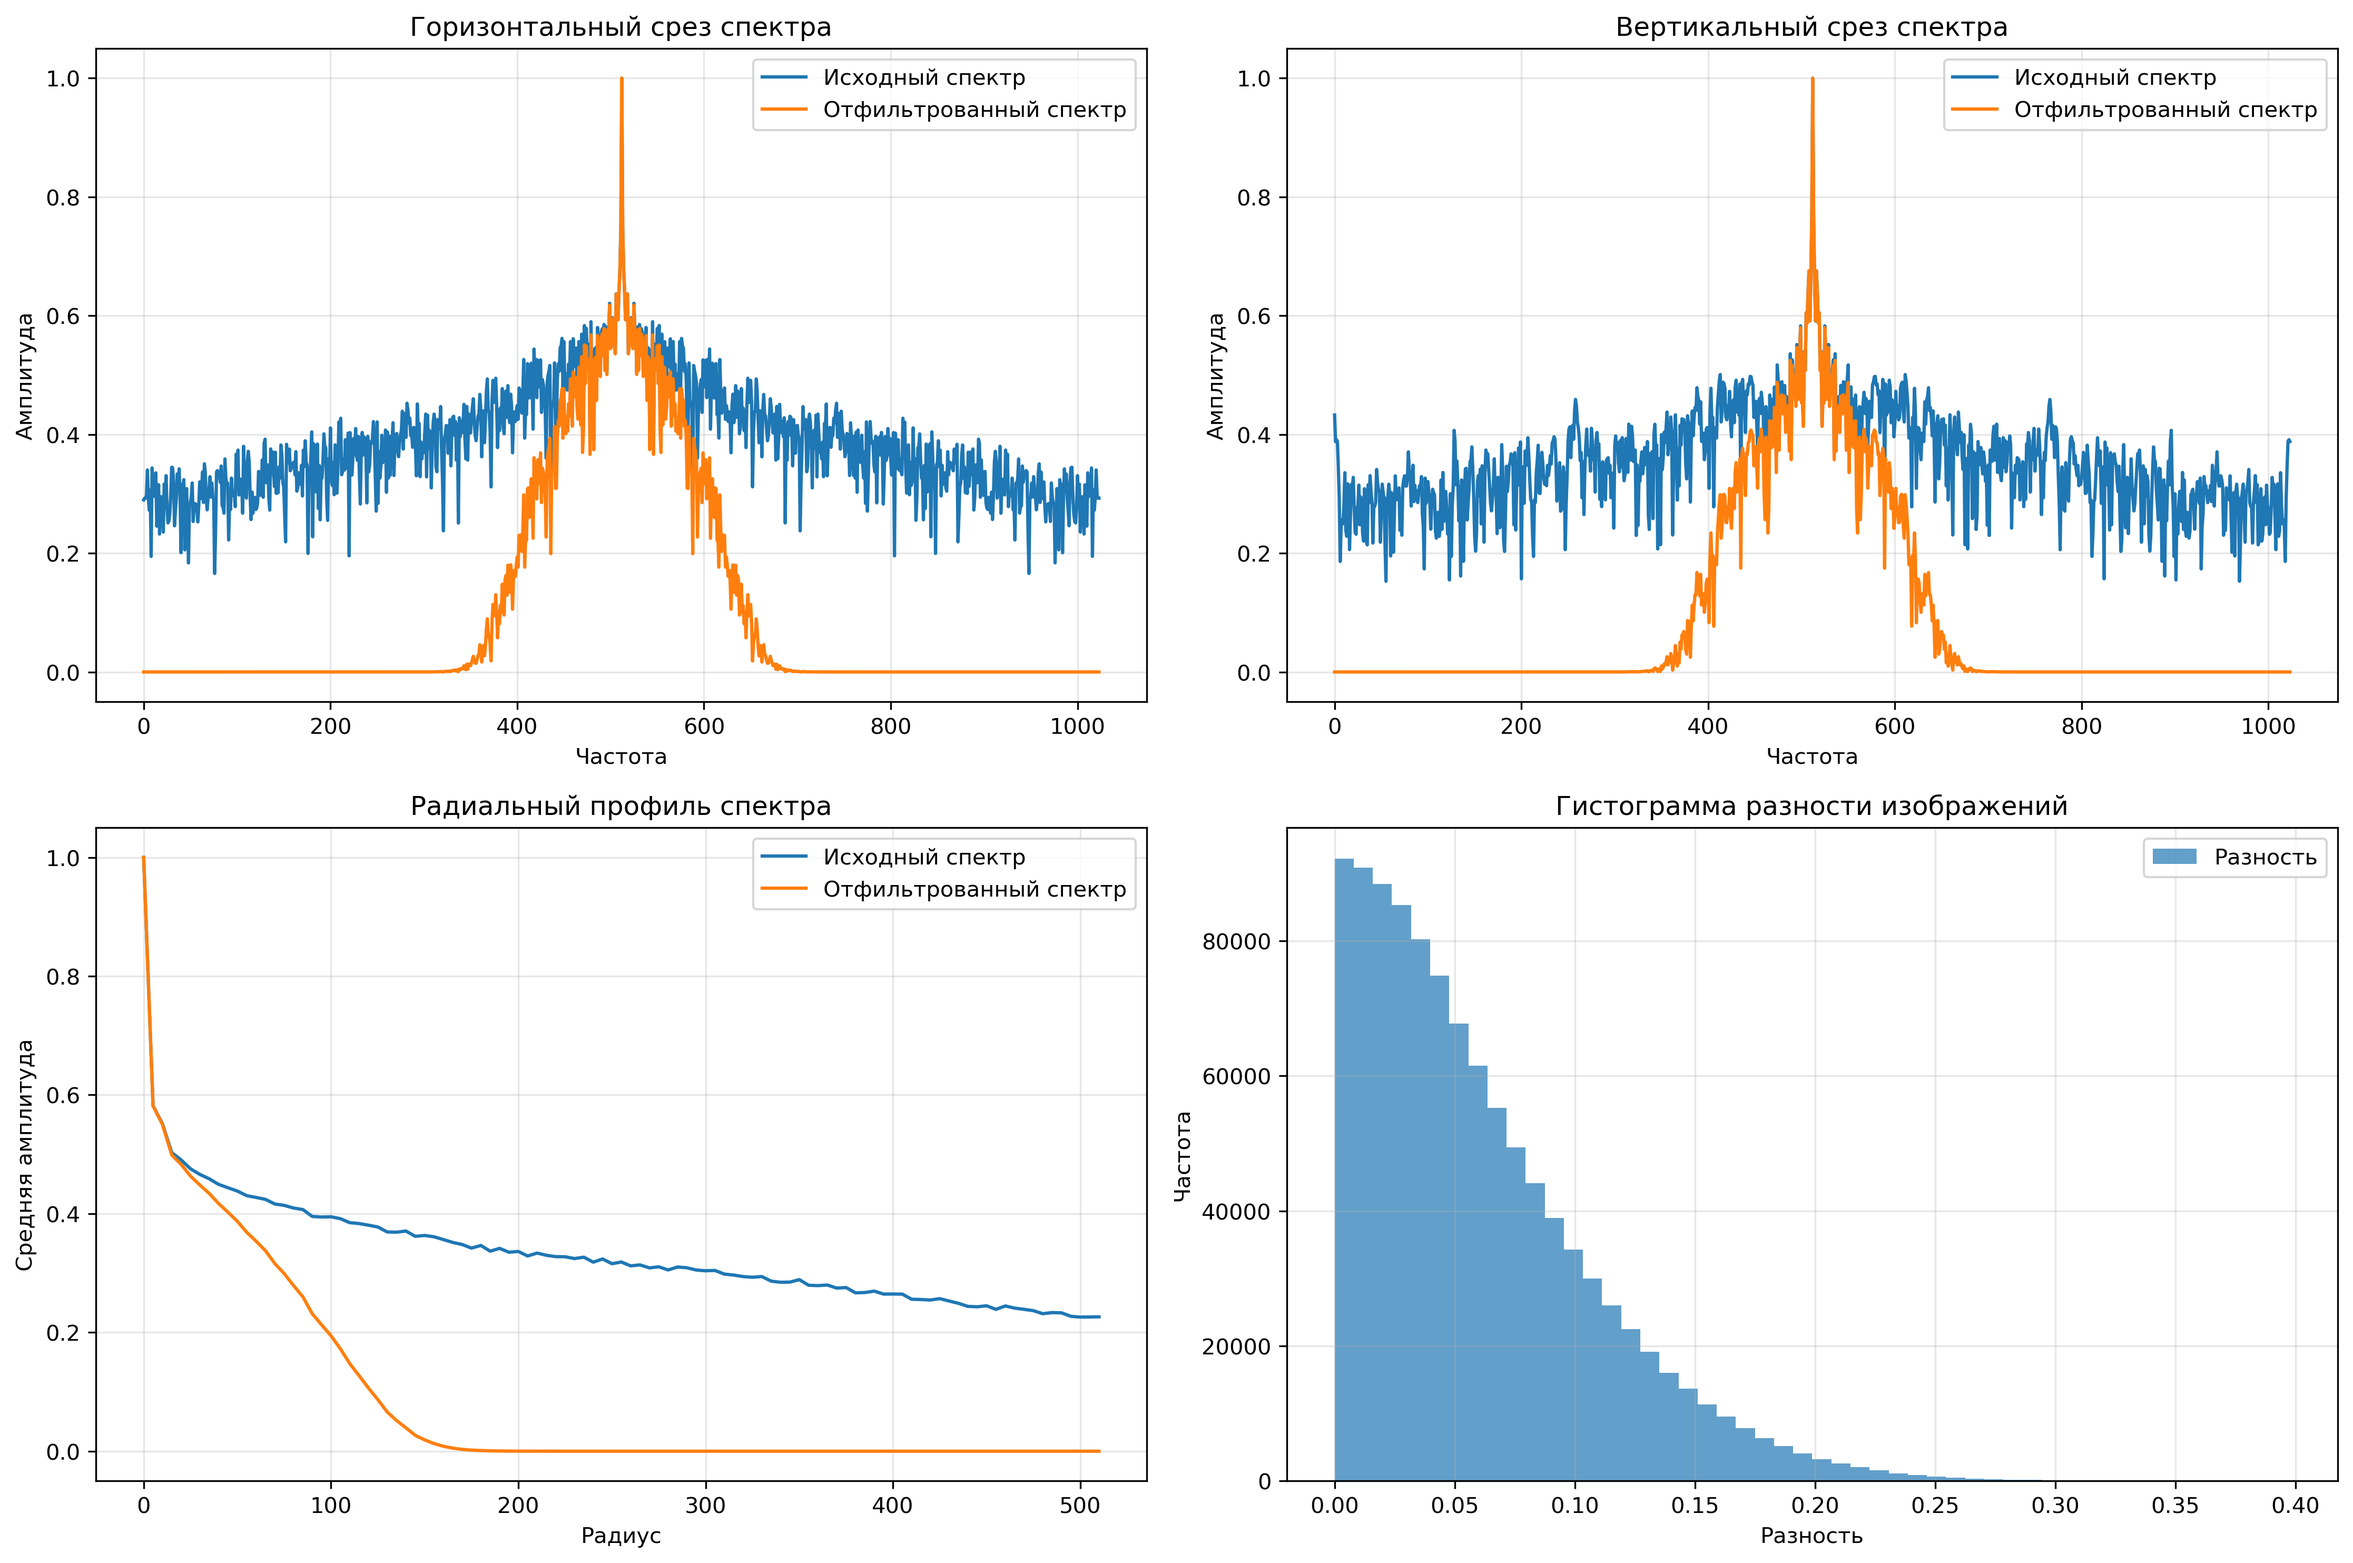
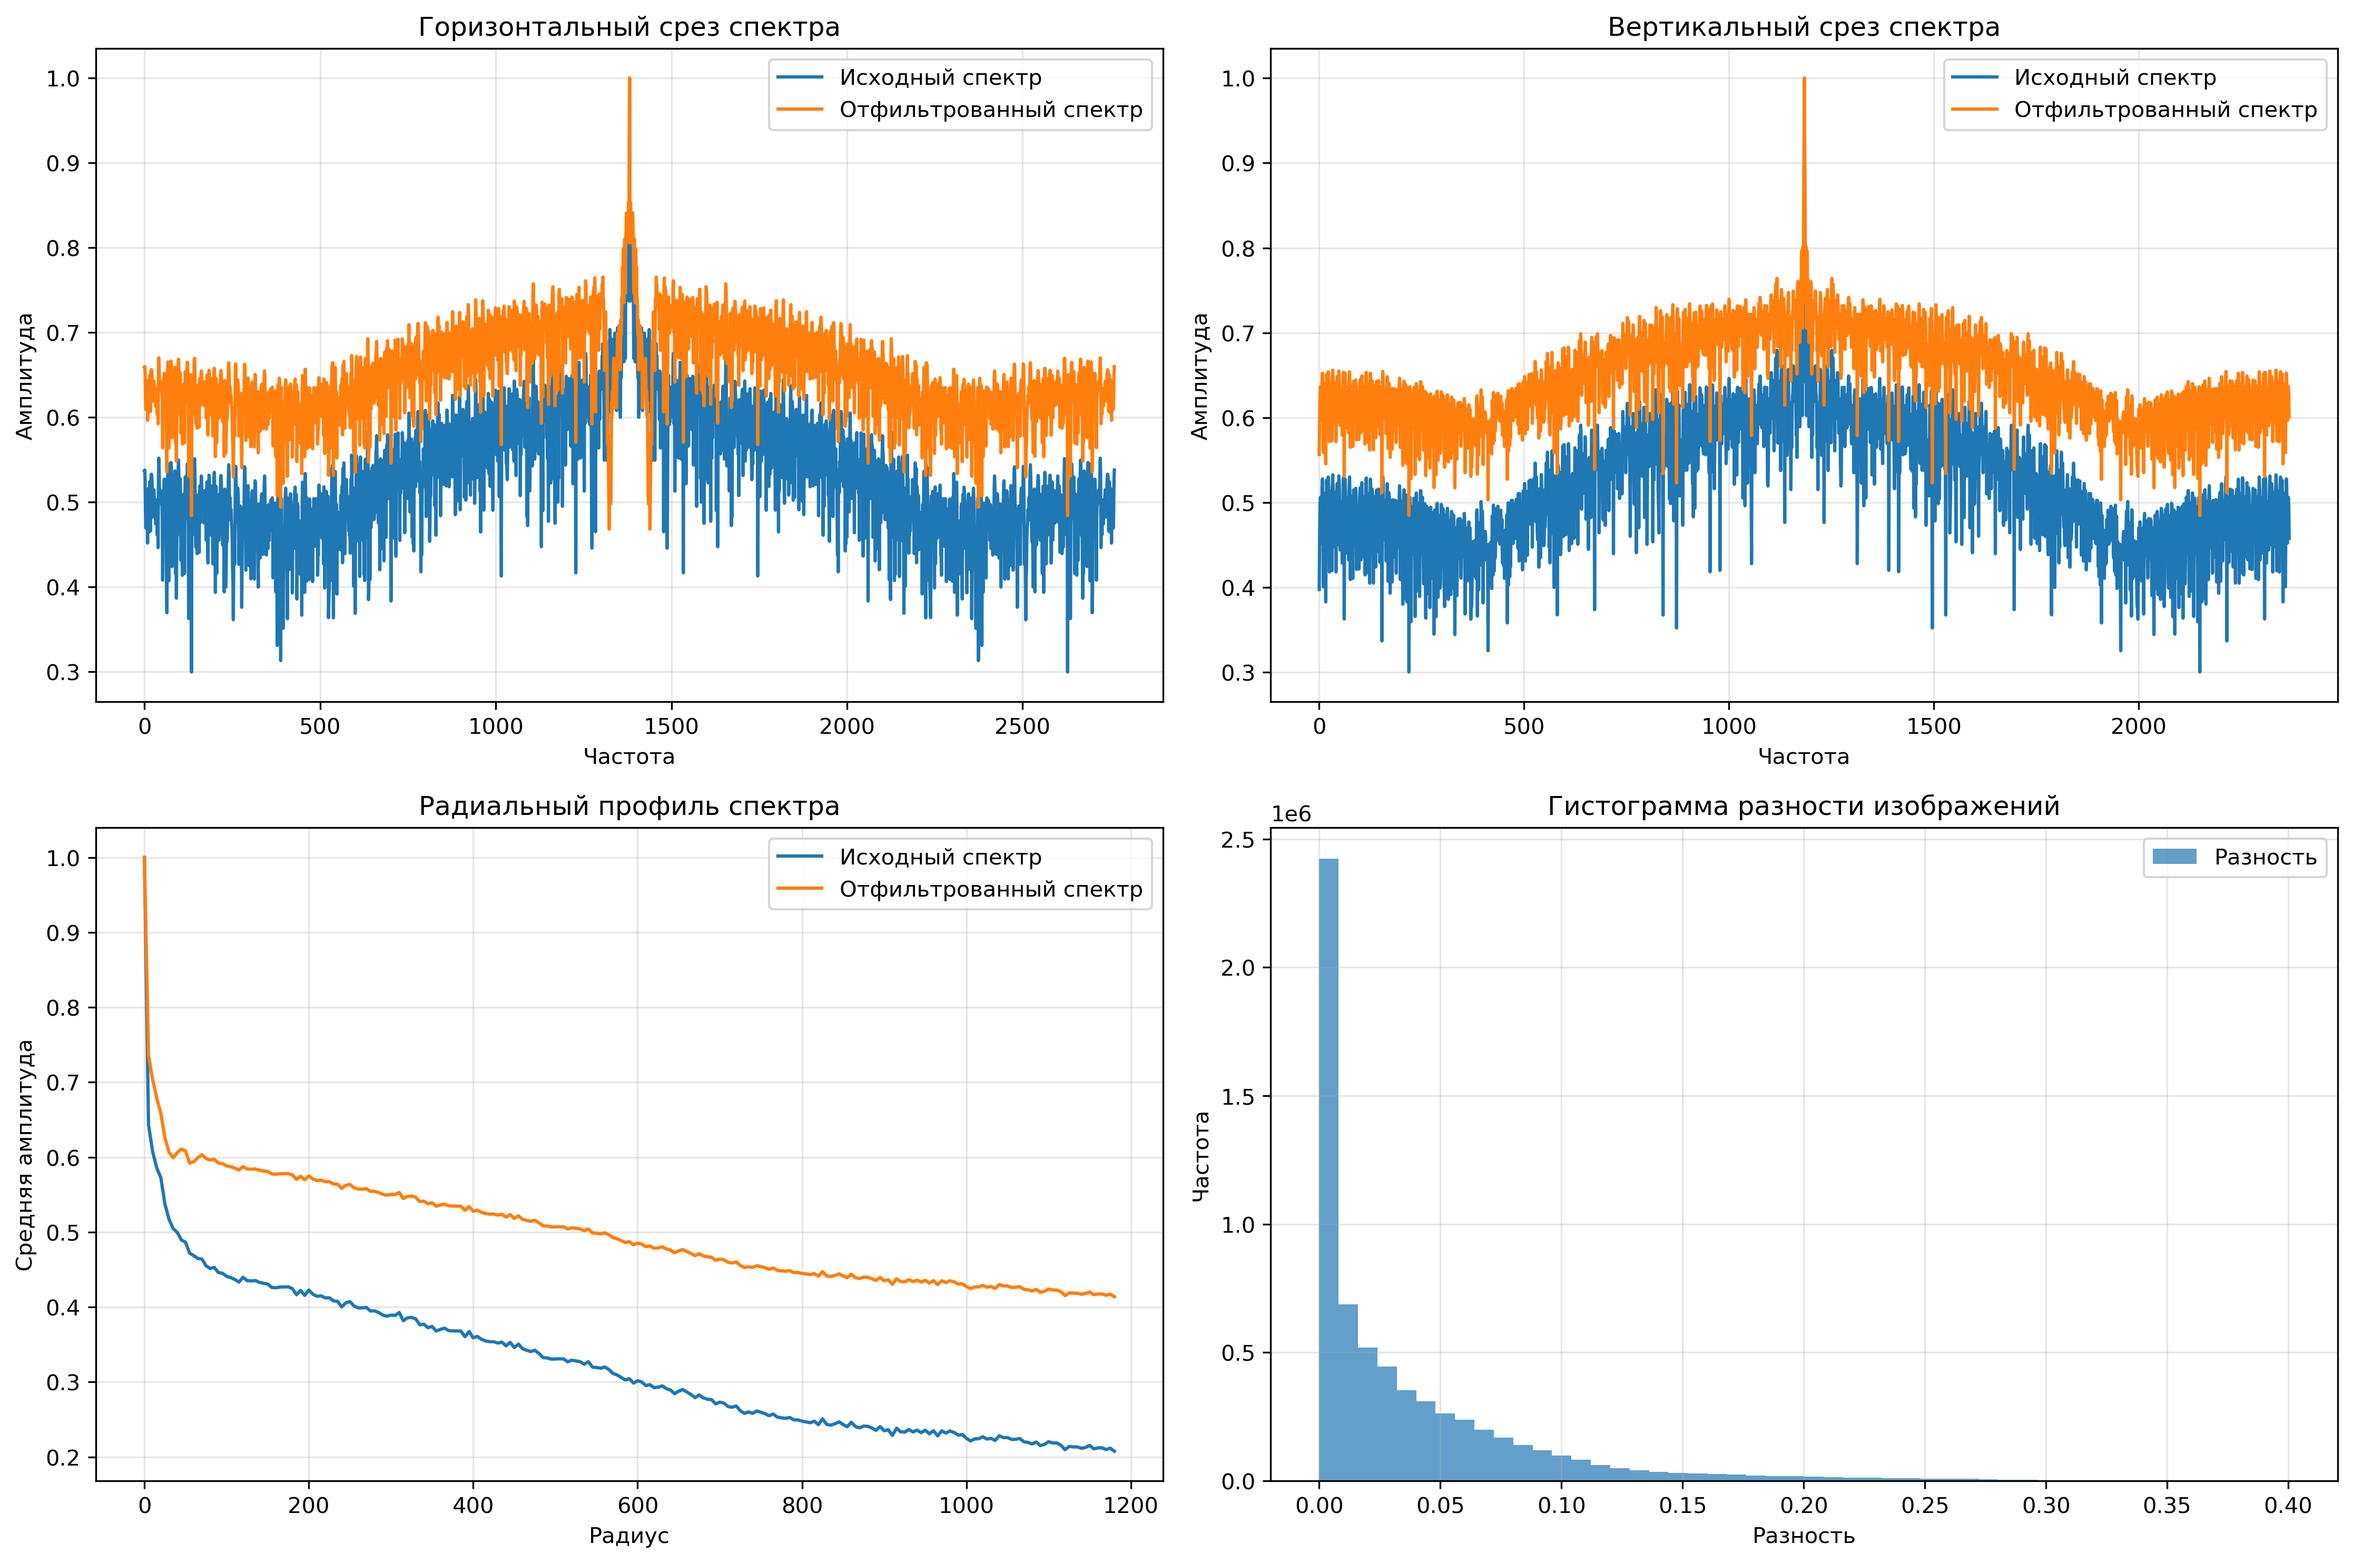
Task 1 updated

diff --git a/frequency_methods/lab6/python/task1_periodic_filtering.py b/frequency_methods/lab6/python/task1_periodic_filtering.py
@@ -40,6 +40,56 @@ def create_test_image_with_periodicity():
     
     return image
 
+# === Новая реализация: узконаправленное подавление периодических гармоник (notch) ===
+
+def build_notch_mask(magnitude: np.ndarray, num_peaks: int = 20, dc_exclude_radius: int = 15,
+                     notch_sigma: float = 8.0) -> np.ndarray:
+    """Создает маску подавления спектральных пиков (notch) вокруг ярких гармоник.
+    - num_peaks: сколько ярких точек учитывать (будут учитываться попарно симметричные)
+    - dc_exclude_radius: зона вокруг центра (DC), которую не трогаем
+    - notch_sigma: ширина гауссовых провалов
+    """
+    H, W = magnitude.shape
+    cy, cx = H // 2, W // 2
+
+    # Нормализованный лог-модуль для поиска пиков
+    log_mag = np.log(magnitude + 1e-9)
+    norm = (log_mag - log_mag.min()) / (log_mag.max() - log_mag.min() + 1e-12)
+
+    # Обнулим центральную область, чтобы не ловить DC/низкие
+    yy, xx = np.ogrid[:H, :W]
+    dist = np.sqrt((yy - cy)**2 + (xx - cx)**2)
+    norm_masked = norm.copy()
+    norm_masked[dist < dc_exclude_radius] = 0.0
+
+    # Выберем num_peaks самых ярких точек
+    flat_idx = np.argpartition(norm_masked.ravel(), -num_peaks)[-num_peaks:]
+    peak_coords = np.column_stack(np.unravel_index(flat_idx, (H, W)))
+
+    # Маска-передаточная функция: стартуем с единиц
+    notch_mask = np.ones((H, W), dtype=float)
+
+    # Применим гауссовы вычитания в окрестностях пиков и их симметрий
+    for (py, px) in peak_coords:
+        # симметричная точка относительно центра
+        sy = int(2 * cy - py)
+        sx = int(2 * cx - px)
+
+        # Избегаем выхода за границы
+        sy = np.clip(sy, 0, H - 1)
+        sx = np.clip(sx, 0, W - 1)
+
+        for (qy, qx) in [(py, px), (sy, sx)]:
+            # Гауссов провал вокруг (qy, qx)
+            notch = np.exp(-(((yy - qy)**2 + (xx - qx)**2) / (2.0 * notch_sigma**2)))
+            # Ослабляем амплитуду на этих частотах
+            notch_mask *= (1.0 - 0.95 * notch)  # до ~ -26 дБ в центре провала
+
+    # Небольшое сглаживание маски центре, чтобы сохранить НЧ
+    lowpass = np.exp(-(dist**2) / (2.0 * (dc_exclude_radius * 1.2)**2))
+    notch_mask = np.maximum(notch_mask, lowpass)
+    return np.clip(notch_mask, 0.0, 1.0)
+
 def periodic_filtering():
     """Фильтрация изображений с периодичностью"""
     
@@ -115,14 +165,13 @@ def periodic_filtering():
     # Анализ пиков периодичности
     print("Анализ пиков периодичности...")
     
-    # Находим пики в спектре
     from scipy.signal import find_peaks
     
     # Анализируем горизонтальные и вертикальные срезы
     center_row = normalized_log_magnitude[normalized_log_magnitude.shape[0]//2, :]
     center_col = normalized_log_magnitude[:, normalized_log_magnitude.shape[1]//2]
     
-    # Находим пики
+    # Находим пики (для иллюстрации на графиках)
     peaks_row, _ = find_peaks(center_row, height=0.5, distance=10)
     peaks_col, _ = find_peaks(center_col, height=0.5, distance=10)
     
@@ -169,25 +218,13 @@ def periodic_filtering():
     plt.close()
     
     # Шаг 5: Редактирование спектра для удаления гармоник
-    print("Редактирование спектра...")
-    
-    # Создаем маску для удаления высокочастотных компонентов
-    # (симуляция редактирования в программе обработки изображений)
-    mask = np.ones_like(magnitude)
-    
-    # Удаляем высокочастотные компоненты (внешние области)
-    center_y, center_x = magnitude.shape[0]//2, magnitude.shape[1]//2
-    radius = min(center_y, center_x) // 4  # Радиус для сохранения низких частот
-    
-    y, x = np.ogrid[:magnitude.shape[0], :magnitude.shape[1]]
-    distance_from_center = np.sqrt((x - center_x)**2 + (y - center_y)**2)
-    
-    # Создаем плавную маску
-    mask = np.exp(-distance_from_center**2 / (2 * (radius/3)**2))
-    
-    # Применяем маску к спектру
-    filtered_magnitude = magnitude * mask
-    filtered_fft = filtered_magnitude * np.exp(1j * phase)
+    print("Редактирование спектра (notch-подавление гармоник)...")
+
+    # Создаем узкополосную маску подавления вокруг ярких гармоник
+    notch_mask = build_notch_mask(magnitude, num_peaks=30, dc_exclude_radius=15, notch_sigma=8.0)
+
+    # Применяем маску к спектру (мягкое подавление гармоник)
+    filtered_fft = (magnitude * notch_mask) * np.exp(1j * phase)
     
     # Шаг 6: Обратное преобразование Фурье
     filtered_image = np.real(ifft2(ifftshift(filtered_fft)))
@@ -209,8 +246,8 @@ def periodic_filtering():
     plt.axis('off')
     
     plt.subplot(2, 3, 3)
-    plt.imshow(mask, cmap='gray')
-    plt.title('Маска фильтрации')
+    plt.imshow(notch_mask, cmap='gray')
+    plt.title('Маска подавления гармоник (notch)')
     plt.axis('off')
     
     plt.subplot(2, 3, 4)
@@ -219,8 +256,8 @@ def periodic_filtering():
     plt.axis('off')
     
     plt.subplot(2, 3, 5)
-    filtered_log_magnitude = np.log(filtered_magnitude + 1)
-    filtered_normalized = (filtered_log_magnitude - filtered_log_magnitude.min()) / (filtered_log_magnitude.max() - filtered_log_magnitude.min())
+    filtered_log_magnitude = np.log(np.abs(filtered_fft))
+    filtered_normalized = (filtered_log_magnitude - filtered_log_magnitude.min()) / (filtered_log_magnitude.max() - filtered_log_magnitude.min() + 1e-12)
     plt.imshow(filtered_normalized, cmap='gray')
     plt.title('Спектр отфильтрованного изображения')
     plt.axis('off')
@@ -271,6 +308,8 @@ def periodic_filtering():
     # Радиальные профили
     plt.subplot(2, 2, 3)
     angles = np.linspace(0, 2*np.pi, 360)
+    H, W = normalized_log_magnitude.shape
+    center_y, center_x = H // 2, W // 2
     radii = np.arange(0, min(center_y, center_x), 5)
     
     original_radial = []
